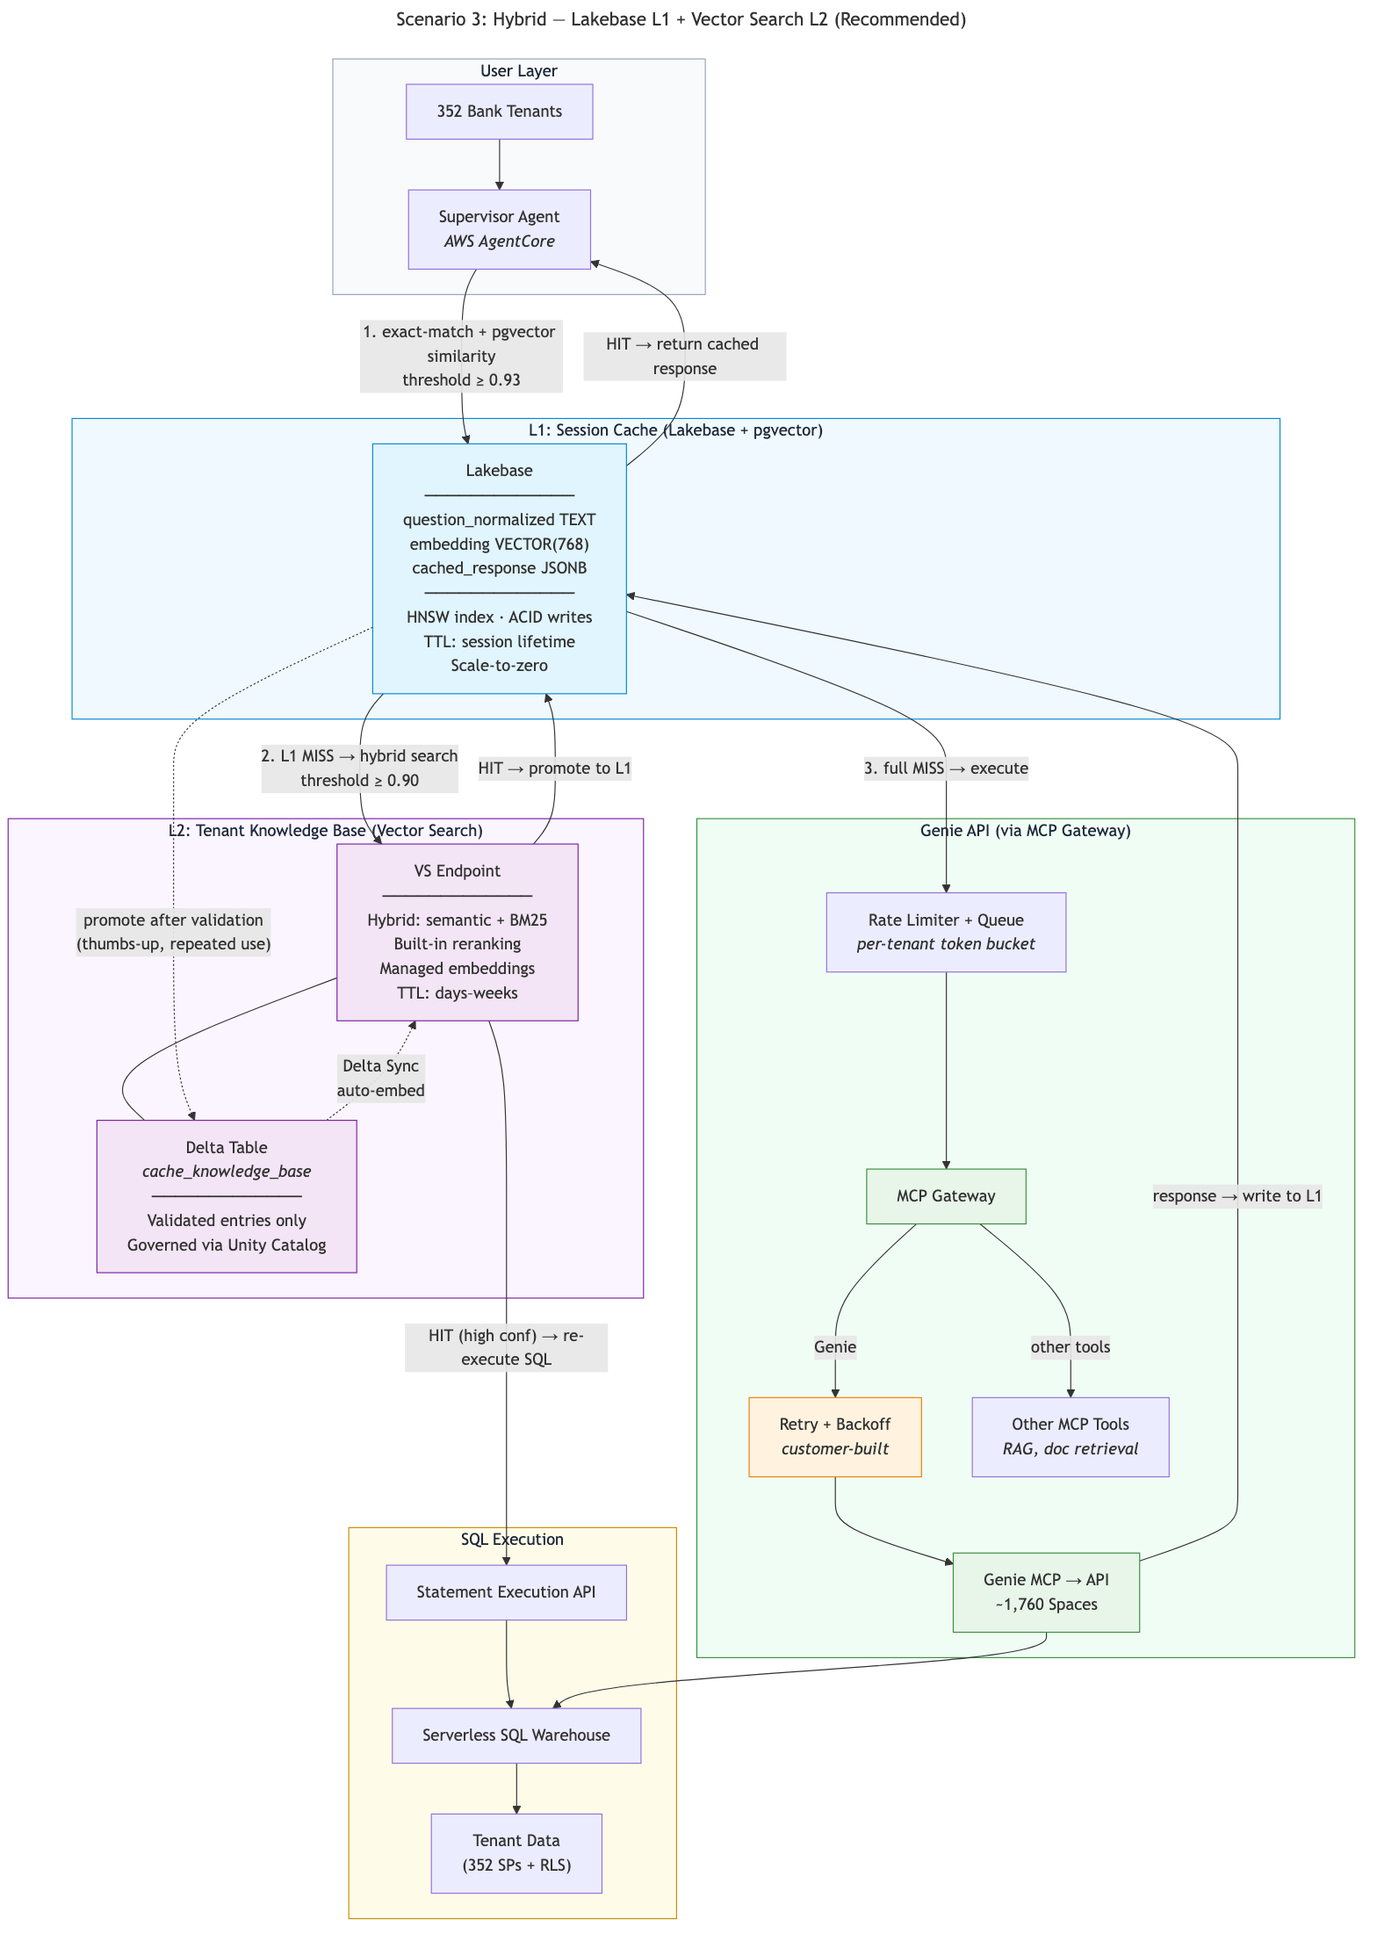
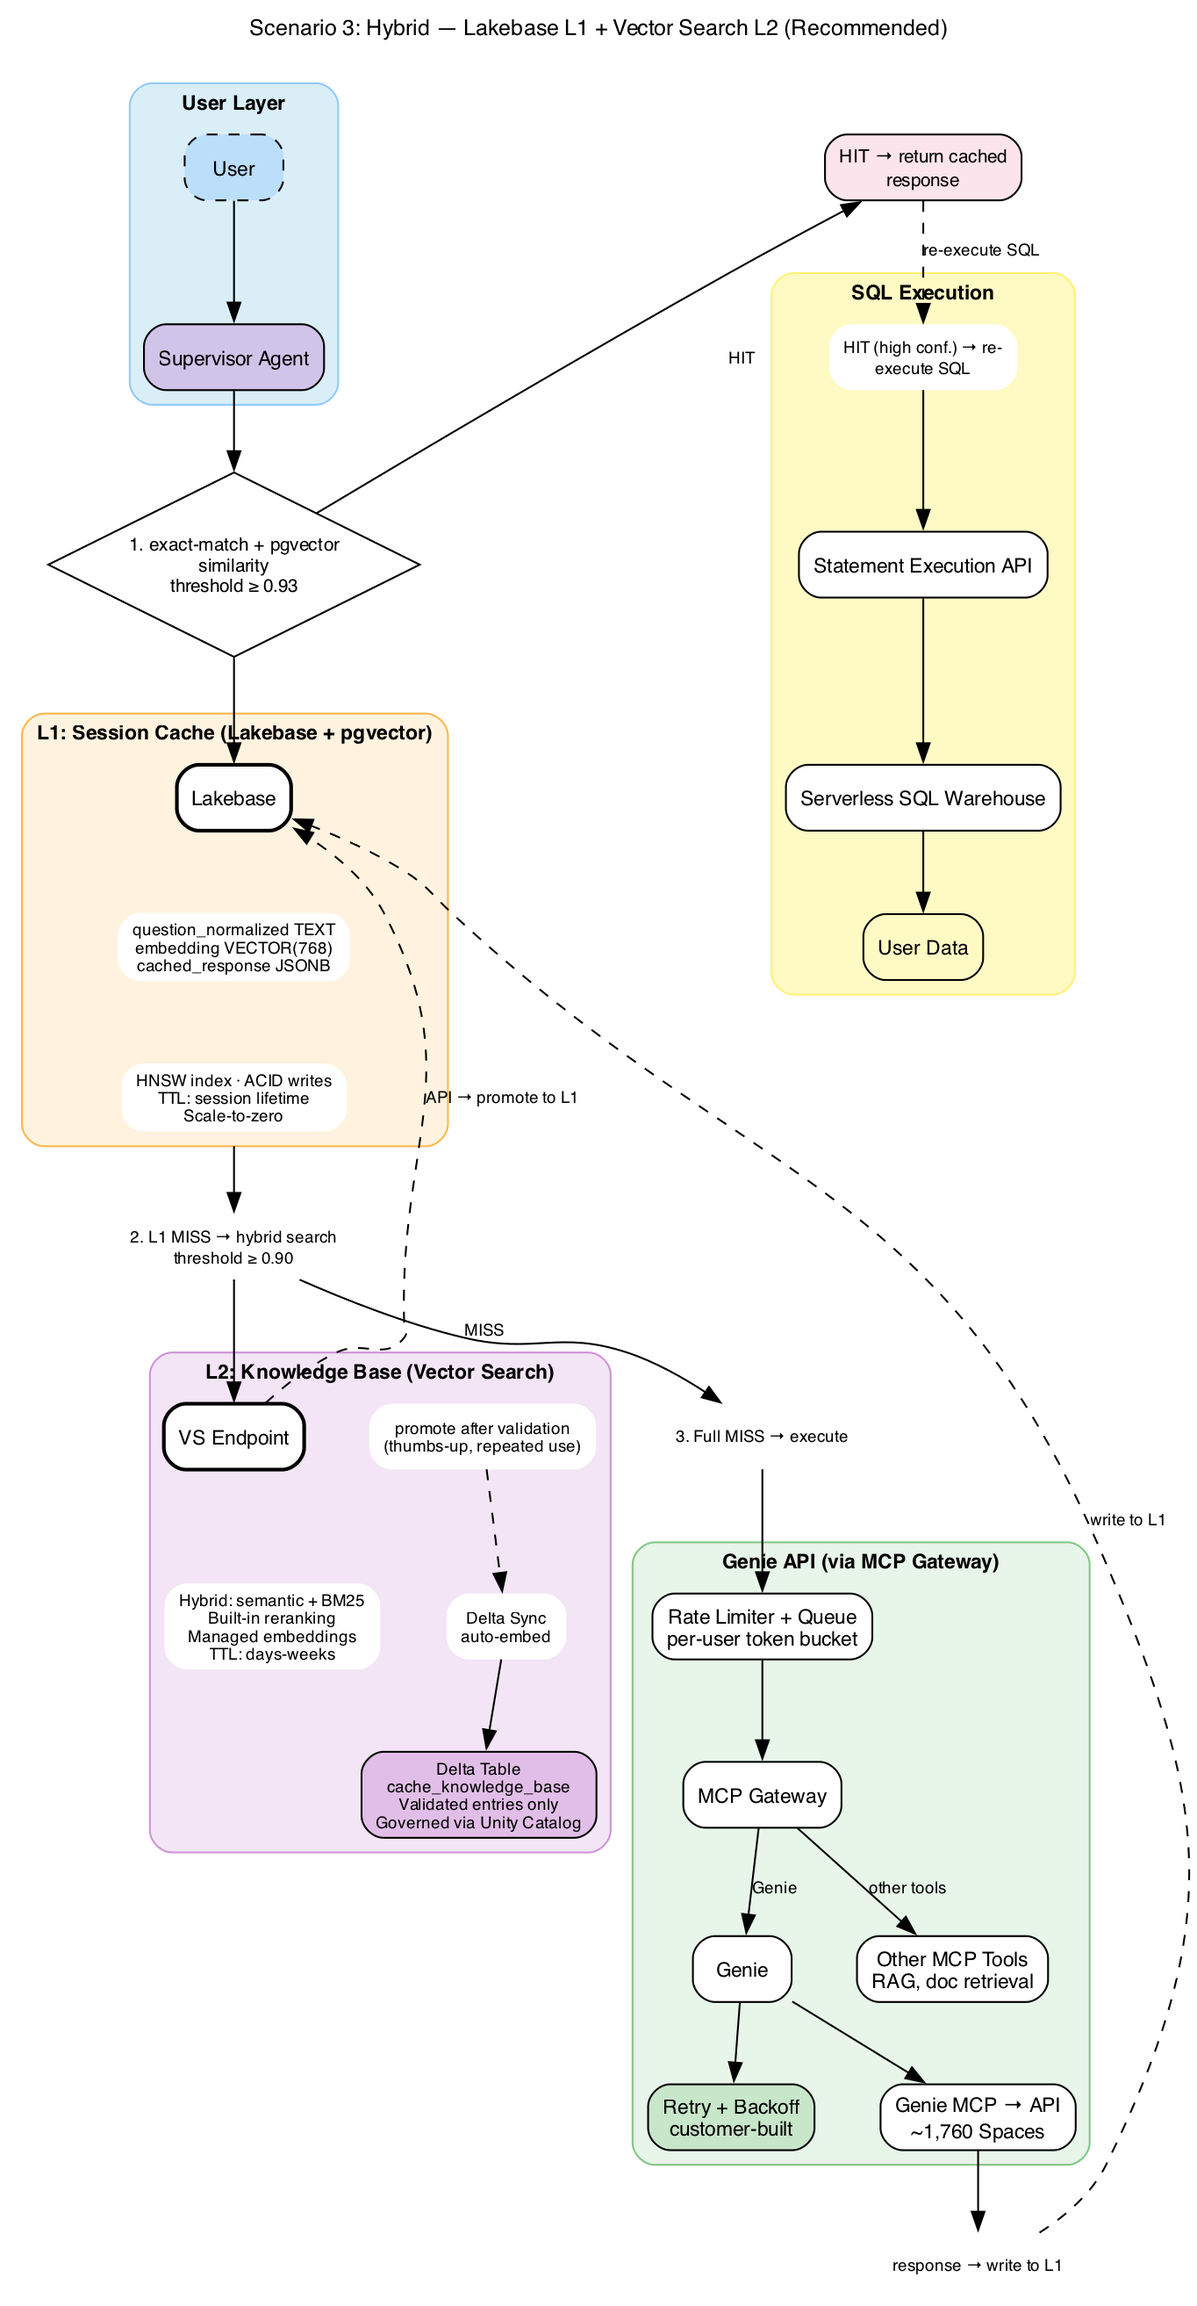
Generalize architecture diagrams to remove customer-specific references
Replace tenant-specific labels ("352 Bank Tenants", "AWS AgentCore",
"Tenant Data") with generic terms ("User", "Supervisor Agent",
"User Data") across all 3 scenario diagrams. Add generate_diagrams.py
script for reproducible diagram generation via graphviz.

diff --git a/aibi/genie-query-caching/generate_diagrams.py b/aibi/genie-query-caching/generate_diagrams.py
@@ -1,0 +1,351 @@
+"""Generate architecture diagrams for the 3 Genie query caching scenarios.
+
+Run: python generate_diagrams.py
+Requires: pip install graphviz  (and graphviz CLI: brew install graphviz)
+"""
+
+import graphviz
+
+# ── Shared colours ──────────────────────────────────────────────────────────
+USER_BG = "#DAEEF8"
+CACHE_LB_BG = "#FFF3E0"
+CACHE_VS_BG = "#F3E5F5"
+GENIE_BG = "#E8F5E9"
+SQL_BG = "#FFF9C4"
+HIT_BG = "#FCE4EC"
+
+NODE = dict(shape="box", style="rounded,filled", fillcolor="white",
+            fontname="Helvetica", fontsize="11")
+DIAMOND = dict(shape="diamond", style="filled", fillcolor="white",
+               fontname="Helvetica", fontsize="10", width="2.5", height="1.4")
+ANNOT = dict(shape="plaintext", fontname="Helvetica", fontsize="9")
+EDGE = dict(fontname="Helvetica", fontsize="9")
+
+
+def _defaults(g: graphviz.Digraph):
+    g.attr(rankdir="TB", splines="true", nodesep="0.5", ranksep="0.6",
+           fontname="Helvetica", fontsize="12", compound="true", dpi="150")
+    g.attr("node", **NODE)
+    g.attr("edge", **EDGE)
+
+
+# ════════════════════════════════════════════════════════════════════════════
+# Scenario 1: Lakebase + pgvector Only
+# ════════════════════════════════════════════════════════════════════════════
+def diagram_1():
+    g = graphviz.Digraph("scenario1", format="png")
+    g.attr(label="Scenario 1: Lakebase + pgvector Only\n ",
+           labelloc="t", fontsize="16", fontname="Helvetica-Bold")
+    _defaults(g)
+
+    # ── User Layer ──
+    with g.subgraph(name="cluster_user") as c:
+        c.attr(label="User Layer", style="filled,rounded", fillcolor=USER_BG,
+               color="#90CAF9", fontname="Helvetica-Bold", fontsize="11")
+        c.node("user", "User", fillcolor="#BBDEFB", style="rounded,filled,dashed")
+        c.node("supervisor", "Supervisor Agent", fillcolor="#D1C4E9")
+        c.edge("user", "supervisor")
+
+    # ── Decision ──
+    g.node("d1", "1. exact-match + pgvector\nsimilarity\nthreshold ≥ 0.92", **DIAMOND)
+    g.node("hit_resp", "HIT → return cached\nresponse", shape="box",
+           style="rounded,filled", fillcolor=HIT_BG, fontsize="10")
+
+    # ── Cache Layer ──
+    with g.subgraph(name="cluster_cache") as c:
+        c.attr(label="Cache Layer (Lakebase + pgvector)", style="filled,rounded",
+               fillcolor=CACHE_LB_BG, color="#FFB74D",
+               fontname="Helvetica-Bold", fontsize="11")
+        c.node("lakebase", "Lakebase", style="rounded,filled,bold", fillcolor="white")
+        c.node("lb_schema",
+               "question_normalized TEXT\nembedding VECTOR(768)\n"
+               "cached_sql TEXT\ncached_response JSONB", **ANNOT)
+        c.node("lb_props",
+               "HNSW index · ACID writes\nImmediate read-after-write\n"
+               "Scale-to-zero", **ANNOT)
+        c.edge("lakebase", "lb_schema", style="invis")
+        c.edge("lb_schema", "lb_props", style="invis")
+
+    # ── Genie API ──
+    with g.subgraph(name="cluster_genie") as c:
+        c.attr(label="Genie API (via MCP Gateway)", style="filled,rounded",
+               fillcolor=GENIE_BG, color="#81C784",
+               fontname="Helvetica-Bold", fontsize="11")
+        c.node("rate_limiter", "Rate Limiter + Queue\nper-user token bucket")
+        c.node("mcp_gw", "MCP Gateway")
+        c.node("genie", "Genie")
+        c.node("retry", "Retry + Backoff\ncustomer-built",
+               fillcolor="#C8E6C9", style="rounded,filled")
+        c.node("other_tools", "Other MCP Tools\nRAG, doc retrieval")
+        c.node("genie_api", "Genie MCP → API\n~1,760 Spaces")
+        c.edge("rate_limiter", "mcp_gw")
+        c.edge("mcp_gw", "genie", label="Genie")
+        c.edge("mcp_gw", "other_tools", label="other tools")
+        c.edge("genie", "retry")
+        c.edge("genie", "genie_api")
+
+    g.node("insert_note", "response → INSERT to\nLakebase\n(immediate write)", **ANNOT)
+
+    # ── SQL Execution ──
+    with g.subgraph(name="cluster_sql") as c:
+        c.attr(label="SQL Execution", style="filled,rounded",
+               fillcolor=SQL_BG, color="#FFF176",
+               fontname="Helvetica-Bold", fontsize="11")
+        c.node("hit_sql", "HIT (SQL cache) → re-\nexecute SQL", **ANNOT)
+        c.node("stmt_api", "Statement Execution API")
+        c.node("warehouse", "Serverless SQL Warehouse")
+        c.node("user_data", "User Data", fillcolor="#FFF9C4")
+        c.edge("hit_sql", "stmt_api")
+        c.edge("stmt_api", "warehouse")
+        c.edge("warehouse", "user_data")
+
+    # ── Main vertical flow (high weight to keep straight) ──
+    g.edge("supervisor", "d1", weight="10")
+    g.edge("d1", "lakebase", weight="10")  # main path goes through cache
+    g.edge("lb_props", "rate_limiter", label="2. MISS → execute",
+           ltail="cluster_cache", weight="10")
+    # HIT branches right (lower weight, no rank constraint)
+    g.edge("d1", "hit_resp", label="HIT", constraint="false")
+
+    # Genie response write-back
+    g.edge("genie_api", "insert_note", weight="5")
+    g.edge("insert_note", "lakebase", style="dashed", label="write back",
+           constraint="false")
+
+    # HIT → SQL execution
+    g.edge("hit_resp", "hit_sql", style="dashed", label="re-execute SQL")
+
+    g.render("scenario1-lakebase-pgvector", directory=".", cleanup=True)
+    print("  ✓ scenario1-lakebase-pgvector.png")
+
+
+# ════════════════════════════════════════════════════════════════════════════
+# Scenario 2: Vector Search Index Only
+# ════════════════════════════════════════════════════════════════════════════
+def diagram_2():
+    g = graphviz.Digraph("scenario2", format="png")
+    g.attr(label="Scenario 2: Vector Search Index Only\n ",
+           labelloc="t", fontsize="16", fontname="Helvetica-Bold")
+    _defaults(g)
+
+    # ── User Layer ──
+    with g.subgraph(name="cluster_user") as c:
+        c.attr(label="User Layer", style="filled,rounded", fillcolor=USER_BG,
+               color="#90CAF9", fontname="Helvetica-Bold", fontsize="11")
+        c.node("user", "User", fillcolor="#BBDEFB", style="rounded,filled,dashed")
+        c.node("supervisor", "Supervisor Agent", fillcolor="#D1C4E9")
+        c.edge("user", "supervisor")
+
+    # ── Decision ──
+    g.node("d1", "1. Hybrid search (semantic\n+ BM25) with confidence\ntiering", **DIAMOND)
+    g.node("hit_resp", "HIT → return / confirm\ncached SQL", shape="box",
+           style="rounded,filled", fillcolor=HIT_BG, fontsize="10")
+
+    # ── Cache Layer ──
+    with g.subgraph(name="cluster_cache") as c:
+        c.attr(label="Cache Layer (Vector Search + Delta Table)",
+               style="filled,rounded", fillcolor=CACHE_VS_BG, color="#CE93D8",
+               fontname="Helvetica-Bold", fontsize="11")
+        c.node("vs_endpoint", "VS Endpoint", style="rounded,filled,bold", fillcolor="white")
+        c.node("vs_props",
+               "Hybrid: semantic + BM25\nBuilt-in reranking\n"
+               "Managed embeddings", **ANNOT)
+        c.node("vs_tiers",
+               "Confidence tiering:\n≥ 0.90 auto-execute\n"
+               "0.75–0.90 confirm\n< 0.75 fall through", **ANNOT)
+        c.edge("vs_endpoint", "vs_props", style="invis")
+        c.edge("vs_props", "vs_tiers", style="invis")
+
+    # ── Genie API ──
+    with g.subgraph(name="cluster_genie") as c:
+        c.attr(label="Genie API (via MCP Gateway)", style="filled,rounded",
+               fillcolor=GENIE_BG, color="#81C784",
+               fontname="Helvetica-Bold", fontsize="11")
+        c.node("rate_limiter", "Rate Limiter + Queue\nper-user token bucket")
+        c.node("mcp_gw", "MCP Gateway")
+        c.node("genie", "Genie")
+        c.node("retry", "Retry + Backoff\ncustomer-built",
+               fillcolor="#C8E6C9", style="rounded,filled")
+        c.node("other_tools", "Other MCP Tools\nRAG, doc retrieval")
+        c.node("genie_api", "Genie MCP → API\n~1,760 Spaces")
+        c.edge("rate_limiter", "mcp_gw")
+        c.edge("mcp_gw", "genie", label="Genie")
+        c.edge("mcp_gw", "other_tools", label="other tools")
+        c.edge("genie", "retry")
+        c.edge("genie", "genie_api")
+
+    g.node("append_note", "response → APPEND to\nDelta\n(sync lag before\nsearchable)", **ANNOT)
+
+    # ── Delta Table ──
+    with g.subgraph(name="cluster_delta") as c:
+        c.attr(label="", style="filled,rounded", fillcolor=CACHE_VS_BG, color="#CE93D8")
+        c.node("delta_table",
+               "Delta Table\ncache_store\n\nquestion_text STRING\n"
+               "cached_sql STRING\ncached_response STRING",
+               fillcolor="#E1BEE7", fontsize="9")
+        c.node("governed", "Governed via Unity Catalog", **ANNOT)
+        c.edge("delta_table", "governed", style="invis")
+
+    g.node("delta_sync", "Delta Sync\nauto-embed\n(seconds-minutes lag)", **ANNOT)
+
+    # ── SQL Execution ──
+    with g.subgraph(name="cluster_sql") as c:
+        c.attr(label="SQL Execution", style="filled,rounded",
+               fillcolor=SQL_BG, color="#FFF176",
+               fontname="Helvetica-Bold", fontsize="11")
+        c.node("hit_sql", "HIT (high conf.) → re-\nexecute SQL", **ANNOT)
+        c.node("stmt_api", "Statement Execution API")
+        c.node("warehouse", "Serverless SQL Warehouse")
+        c.node("user_data", "User Data", fillcolor="#FFF9C4")
+        c.edge("hit_sql", "stmt_api")
+        c.edge("stmt_api", "warehouse")
+        c.edge("warehouse", "user_data")
+
+    # ── Main vertical flow ──
+    g.edge("supervisor", "d1", weight="10")
+    g.edge("d1", "vs_endpoint", weight="10")  # main path through cache
+    g.edge("vs_tiers", "rate_limiter", label="2. MISS → execute",
+           ltail="cluster_cache", weight="10")
+    g.edge("d1", "hit_resp", label="HIT", constraint="false")
+
+    # HIT → SQL
+    g.edge("hit_resp", "hit_sql", style="dashed", label="re-execute SQL")
+
+    # Genie response → Delta → VS
+    g.edge("genie_api", "append_note", weight="5")
+    g.edge("append_note", "delta_table", label="write")
+    g.edge("delta_table", "delta_sync", style="dashed", dir="back", label="sync")
+    g.edge("delta_sync", "vs_endpoint", style="dashed", label="embed",
+           constraint="false")
+
+    g.render("scenario2-vector-search", directory=".", cleanup=True)
+    print("  ✓ scenario2-vector-search.png")
+
+
+# ════════════════════════════════════════════════════════════════════════════
+# Scenario 3: Hybrid — Lakebase L1 + Vector Search L2 (Recommended)
+# ════════════════════════════════════════════════════════════════════════════
+def diagram_3():
+    g = graphviz.Digraph("scenario3", format="png")
+    g.attr(label="Scenario 3: Hybrid — Lakebase L1 + Vector Search L2 (Recommended)\n ",
+           labelloc="t", fontsize="16", fontname="Helvetica-Bold")
+    _defaults(g)
+
+    # ── User Layer ──
+    with g.subgraph(name="cluster_user") as c:
+        c.attr(label="User Layer", style="filled,rounded", fillcolor=USER_BG,
+               color="#90CAF9", fontname="Helvetica-Bold", fontsize="11")
+        c.node("user", "User", fillcolor="#BBDEFB", style="rounded,filled,dashed")
+        c.node("supervisor", "Supervisor Agent", fillcolor="#D1C4E9")
+        c.edge("user", "supervisor")
+
+    # ── L1 Decision ──
+    g.node("d1", "1. exact-match + pgvector\nsimilarity\nthreshold ≥ 0.93", **DIAMOND)
+    g.node("hit_resp", "HIT → return cached\nresponse", shape="box",
+           style="rounded,filled", fillcolor=HIT_BG, fontsize="10")
+
+    # ── L1: Session Cache ──
+    with g.subgraph(name="cluster_l1") as c:
+        c.attr(label="L1: Session Cache (Lakebase + pgvector)",
+               style="filled,rounded", fillcolor=CACHE_LB_BG, color="#FFB74D",
+               fontname="Helvetica-Bold", fontsize="11")
+        c.node("lakebase", "Lakebase", style="rounded,filled,bold", fillcolor="white")
+        c.node("l1_schema",
+               "question_normalized TEXT\nembedding VECTOR(768)\n"
+               "cached_response JSONB", **ANNOT)
+        c.node("l1_props",
+               "HNSW index · ACID writes\nTTL: session lifetime\n"
+               "Scale-to-zero", **ANNOT)
+        c.edge("lakebase", "l1_schema", style="invis")
+        c.edge("l1_schema", "l1_props", style="invis")
+
+    # ── L2 flow annotations ──
+    g.node("l2_miss", "2. L1 MISS → hybrid search\nthreshold ≥ 0.90", **ANNOT)
+    g.node("full_miss_note", "3. Full MISS → execute", **ANNOT)
+
+    # ── L2: Knowledge Base ──
+    with g.subgraph(name="cluster_l2") as c:
+        c.attr(label="L2: Knowledge Base (Vector Search)",
+               style="filled,rounded", fillcolor=CACHE_VS_BG, color="#CE93D8",
+               fontname="Helvetica-Bold", fontsize="11")
+        c.node("vs_endpoint", "VS Endpoint", style="rounded,filled,bold", fillcolor="white")
+        c.node("vs_props",
+               "Hybrid: semantic + BM25\nBuilt-in reranking\n"
+               "Managed embeddings\nTTL: days-weeks", **ANNOT)
+        c.node("promote_note", "promote after validation\n(thumbs-up, repeated use)", **ANNOT)
+        c.node("delta_sync", "Delta Sync\nauto-embed", **ANNOT)
+        c.node("delta_table",
+               "Delta Table\ncache_knowledge_base\nValidated entries only\n"
+               "Governed via Unity Catalog",
+               fillcolor="#E1BEE7", fontsize="9")
+        c.edge("vs_endpoint", "vs_props", style="invis")
+        c.edge("promote_note", "delta_sync", style="dashed")
+        c.edge("delta_sync", "delta_table")
+
+    # ── Genie API ──
+    with g.subgraph(name="cluster_genie") as c:
+        c.attr(label="Genie API (via MCP Gateway)", style="filled,rounded",
+               fillcolor=GENIE_BG, color="#81C784",
+               fontname="Helvetica-Bold", fontsize="11")
+        c.node("rate_limiter", "Rate Limiter + Queue\nper-user token bucket")
+        c.node("mcp_gw", "MCP Gateway")
+        c.node("genie", "Genie")
+        c.node("retry", "Retry + Backoff\ncustomer-built",
+               fillcolor="#C8E6C9", style="rounded,filled")
+        c.node("other_tools", "Other MCP Tools\nRAG, doc retrieval")
+        c.node("genie_api", "Genie MCP → API\n~1,760 Spaces")
+        c.edge("rate_limiter", "mcp_gw")
+        c.edge("mcp_gw", "genie", label="Genie")
+        c.edge("mcp_gw", "other_tools", label="other tools")
+        c.edge("genie", "retry")
+        c.edge("genie", "genie_api")
+
+    g.node("write_l1", "response → write to L1", **ANNOT)
+
+    # ── SQL Execution ──
+    with g.subgraph(name="cluster_sql") as c:
+        c.attr(label="SQL Execution", style="filled,rounded",
+               fillcolor=SQL_BG, color="#FFF176",
+               fontname="Helvetica-Bold", fontsize="11")
+        c.node("hit_sql", "HIT (high conf.) → re-\nexecute SQL", **ANNOT)
+        c.node("stmt_api", "Statement Execution API")
+        c.node("warehouse", "Serverless SQL Warehouse")
+        c.node("user_data", "User Data", fillcolor="#FFF9C4")
+        c.edge("hit_sql", "stmt_api")
+        c.edge("stmt_api", "warehouse")
+        c.edge("warehouse", "user_data")
+
+    # ── Main vertical flow ──
+    g.edge("supervisor", "d1", weight="10")
+    g.edge("d1", "lakebase", weight="10")  # main path through L1
+    g.edge("d1", "hit_resp", label="HIT", constraint="false")
+
+    # L1 MISS → L2
+    g.edge("l1_props", "l2_miss", ltail="cluster_l1", weight="8")
+    g.edge("l2_miss", "vs_endpoint", weight="8")
+
+    # L2 HIT → promote to L1
+    g.edge("vs_endpoint", "lakebase", style="dashed",
+           label="API → promote to L1", constraint="false")
+
+    # Full MISS → Genie
+    g.edge("l2_miss", "full_miss_note", label="MISS", weight="5")
+    g.edge("full_miss_note", "rate_limiter", weight="5")
+
+    # Genie response → L1
+    g.edge("genie_api", "write_l1", weight="5")
+    g.edge("write_l1", "lakebase", style="dashed", label="write to L1",
+           constraint="false")
+
+    # SQL path
+    g.edge("hit_resp", "hit_sql", style="dashed", label="re-execute SQL")
+
+    g.render("scenario3-hybrid", directory=".", cleanup=True)
+    print("  ✓ scenario3-hybrid.png")
+
+
+if __name__ == "__main__":
+    diagram_1()
+    diagram_2()
+    diagram_3()
+    print("\nAll diagrams generated.")
